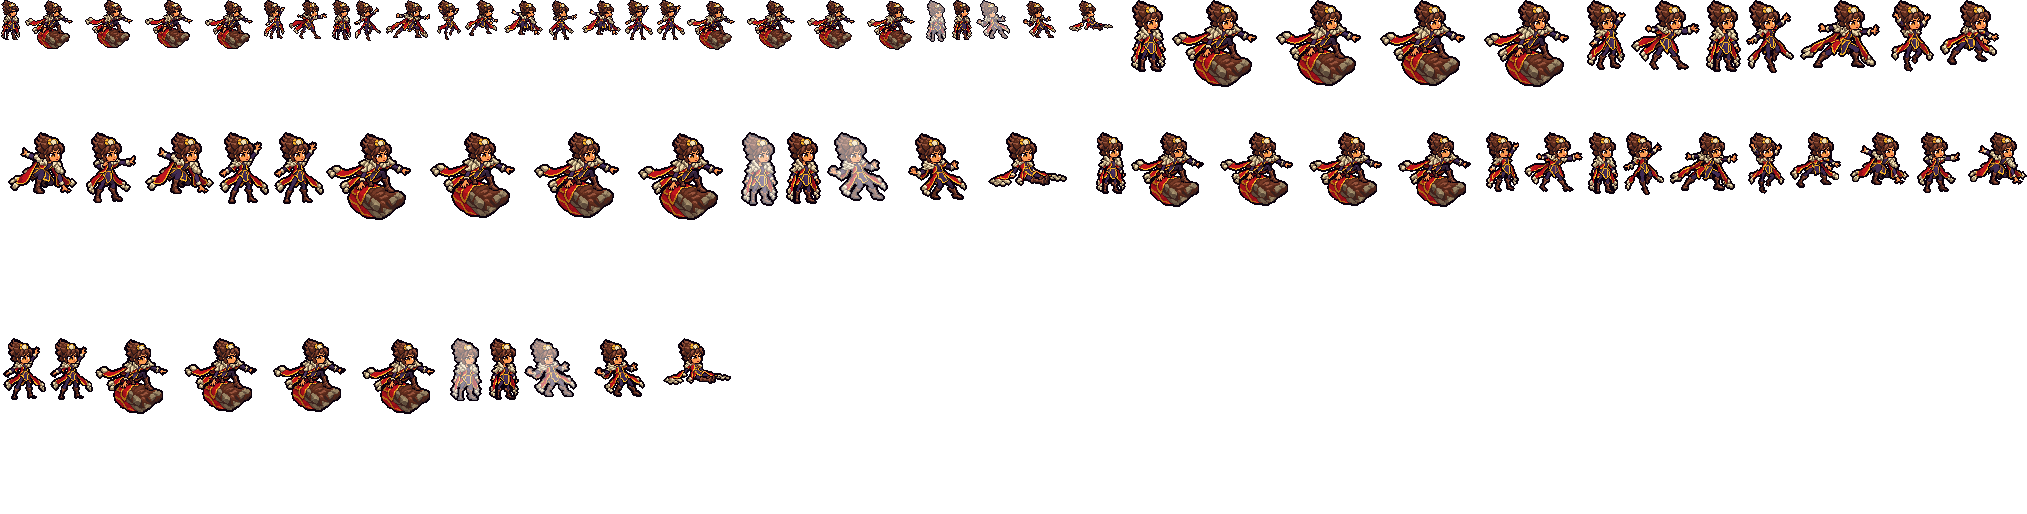
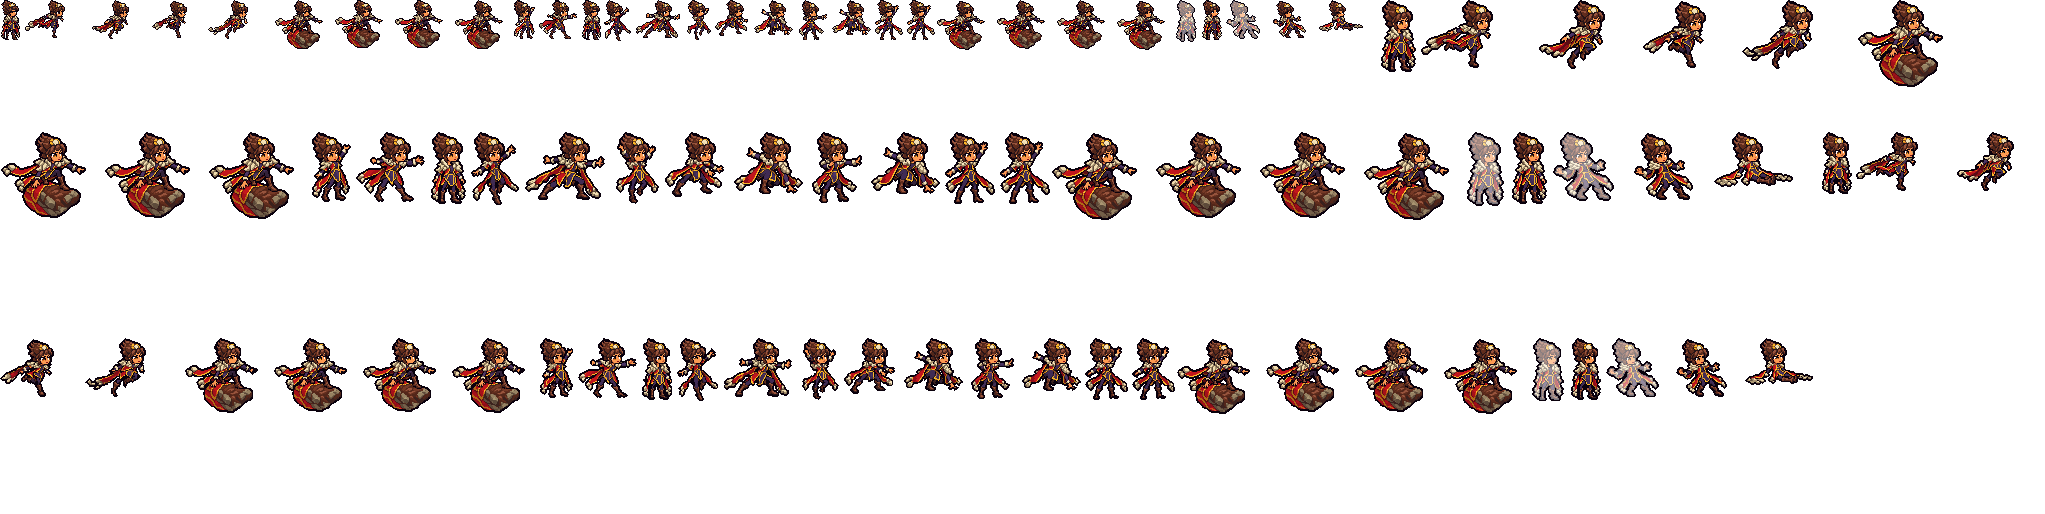
Taliyah's foot run from Codex's four run poses; the surf moved to its own tag
Codex new-chat-8 (RUN_POSE_PROMPTS.md) -> assets/source/taliyah/codex_run; design_taliyah_poses.py reads run1-run4
back like the other poses (head match 13-13.75 px, read at the body's scale, the design's head pasted; costs
0.06-0.13 as the 10-24 poses). rig_taliyah.py: run = run1-run4 lined up on their heads (RUN_DX 1 ahead of the
design's), 125 ms a frame; surf = the old boulder loop (league_taliyah swaps run -> surf out of fights); ult_ride
unchanged. Exported, ppu_restyle (taliyah_face.json, missing so far, kept), ppu_hd (hd_surf drawn), hero_reels.

Changed region(s): [[0.0, 0.249, 1.0, 0.4358], [0.0, 0.0, 0.9946, 0.1868], [0.0, 0.6537, 0.9013, 0.8093]]

diff --git a/tools/art/rig_taliyah.py b/tools/art/rig_taliyah.py
@@ -173,6 +173,13 @@ class Form:
         """A Codex pose standing where the design stands (left_of), moved dx squares, `lift` rows over the ground."""
         return self.place(load(f"pose_{name}.png"), self.left_of(name) + dx, lift)
 
+    def running(self, name):
+        """A run pose (run1-run4): the head box on the same column in every frame (RUN_DX squares ahead of the design's
+        head: she leans into the run), so the body does not sway sideways as the planted foot changes; its lowest row
+        (the foot on the ground) on the ground line."""
+        left = self.rig.ox + PK_HEAD_C0 + RUN_DX - head_at(name)[0]
+        return self.place(load(f"pose_{name}.png"), left)
+
     def surf(self, sunk, lift, up=0):
         """A surf frame (the run), its boulder `up` rows over the ground (the ride on top of her wall)."""
         left = self.rig.ox + int(round((DESIGN_FEET[0] + DESIGN_FEET[1]) / 2 - BOULDER_FOOT))
@@ -194,8 +201,10 @@ def head_at(name):
 # 233 ms), the press on the ground and W's warning crack (w_rel 21 = 350 ms), the shove;
 # R near (ult, r_dur 40 = 667 ms): the crouch, the upright wall called up (r_rel 16 = 267 ms); R far (ult_ride): the
 # wall called, then she rides her boulder along it (the surf);
-# the run: the surf, 4 frames.
-MS = {"idle": [1000], "run": [120] * 4,
+# the run: on her feet, run1-run4 (one stride of League's Run1, two steps in RUN_MS x 4); the surf (out of fights,
+# league_taliyah's view.rs swaps run -> surf): the boulder, 4 frames.
+RUN_MS = 125
+MS = {"idle": [1000], "run": [RUN_MS] * 4, "surf": [120] * 4,
       "attack": [167, 183, 100],
       "skill": [133, 134],
       "skill2": [100, 133, 117, 250],
@@ -208,6 +217,10 @@ MS = {"idle": [1000], "run": [120] * 4,
 # design's (9 and 27); d_down (sitting, the legs out to the right) keeps the stagger's head column moved HEAD_BACK
 # squares back.
 DESIGN_FEET = (9, 27)
+# the run poses line up on their heads: the design's head box starts at column PK_HEAD_C0 (pack_taliyah_poses.HEAD), the
+# runner's RUN_DX squares further on
+PK_HEAD_C0 = 2
+RUN_DX = 1
 FEET = {"a_wind": (10, 30), "a_throw": (19, 54), "q_raise": (23, 27), "q_cast": (14, 61), "e_raise": (13, 18),
         "e_sweep": (7, 44), "w_crouch": (26, 33), "w_push": (8, 33), "r_call": (10, 35), "d_stagger": (23, 52)}
 HEAD_BACK = {"d_down": ("d_stagger", -3)}
@@ -223,8 +236,10 @@ def actions(F):
         return F.posed(name, dx + ddx, lift + dlift)
     out = {}
     out["idle"] = [p()]
-    # run: the passive's rock surf (League's taliyah_run_passive), surf1 looped
-    out["run"] = [F.surf(s, k) for s, k in SURF]
+    # run: on her feet (League's taliyah_run1; the user, 2026-10-26: 「塔利亚怎么是飞着走路的 不对吧」)
+    out["run"] = [F.running(f"run{k}") for k in range(1, 5)]
+    # surf: the passive's rock surf (League's taliyah_run_passive), surf1 looped - out of fights (league_taliyah)
+    out["surf"] = [F.surf(s, k) for s, k in SURF]
     # auto attack (League's taliyah_attack1: a stone called up over the far hand, flicked forward)
     out["attack"] = [at("a_wind"), at("a_throw"), p()]
     # Q Threaded Volley (taliyah_spell1_0: the far arm up calling the rocks, then pushed forward with the volley)

diff --git a/tools/art/design_taliyah_poses.py b/tools/art/design_taliyah_poses.py
@@ -41,6 +41,8 @@ from design_taliyah_hd import lp  # noqa: E402
 import pack_taliyah_poses as PK  # noqa: E402
 
 SRC = os.path.join(ROOT, "assets", "source", "taliyah", "codex_poses", "taliyah-poses", "raw")
+# the run on her feet (2026-10-26, RUN_POSE_PROMPTS.md; Codex new-chat-8): run1-run4, its own delivery
+SRC_RUN = os.path.join(ROOT, "assets", "source", "taliyah", "codex_run", "taliyah-run")
 OUT = os.path.join(ROOT, "assets", "source", "taliyah", "hd")
 # the gold ornament (rows 6-12, columns 15-24), the hair's middle above the face, the brows (row 19), the eyes (rows
 # 20-23: the near one columns 16-20, the far one 24-25), the mouth (row 26) and the chin (row 29) - square edges on
@@ -78,7 +80,8 @@ def design(name="idle.png"):
 
 
 def raw(name):
-    return np.asarray(Image.open(lp(os.path.join(SRC, f"taliyah-pose-{name}.png"))).convert("RGBA"))
+    src = SRC_RUN if name.startswith("run") else SRC
+    return np.asarray(Image.open(lp(os.path.join(src, f"taliyah-pose-{name}.png"))).convert("RGBA"))
 
 
 def head_mask(d):

diff --git a/assets/source/taliyah/codex_run/taliyah-run/HANDOFF.md b/assets/source/taliyah/codex_run/taliyah-run/HANDOFF.md
@@ -1,0 +1,11 @@
+# 塔莉垭跑步素材
+
+根据 taliyah_run_pack.zip 的角色定稿、头部、骨架和原版动作参考，用内置 image_gen 生成四张二维像素风跑步姿势图。四张均为 1254 × 1254 PNG，带透明背景。raw/ 保存未修改的生成原图，顶层 PNG 是同一原图的命名副本。完整提示词见 generation-prompts.txt，文件检查结果见 validation.json。
+
+## 状态与限制
+
+这是生成模型素材初稿，尚未接入游戏或绑定动画。可见角色保持棕发金饰、石片披肩、红外套、靛紫服装与棕靴，采用用脚跑步，没有冲浪巨石。
+
+生成结果未严格满足参考包的逐格规范：头部并非定稿逐像素复制；四帧头部、衣摆、身形尺寸与位置存在变化；近侧和远侧腿的交替仍需复核。尚未证明 11 px 统一网格、29×30 格头部、肢体长度与 y=1188 脚底定位。
+
+透明通道实测含大量 1–254 中间 alpha，未达到纯 0/255 的硬边要求。没有通过代码绘制替代角色，也没有后处理修改原图。后续用于游戏时，应先统一头部、调色板、像素网格、透明边缘与脚底锚点，再检查四帧循环。此包不能视为已通过游戏像素与动画验收。
